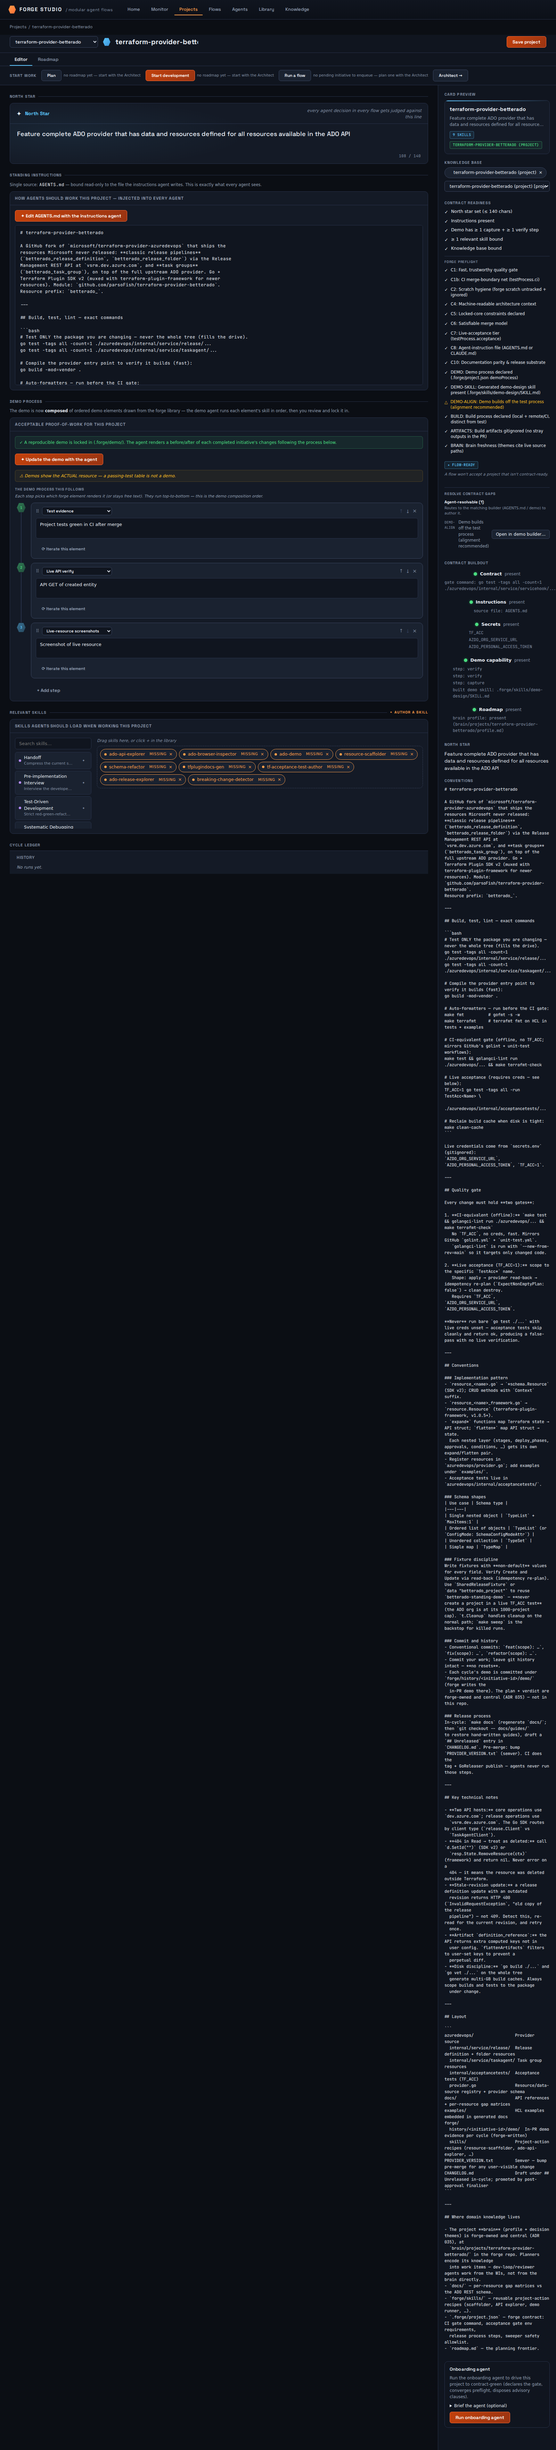
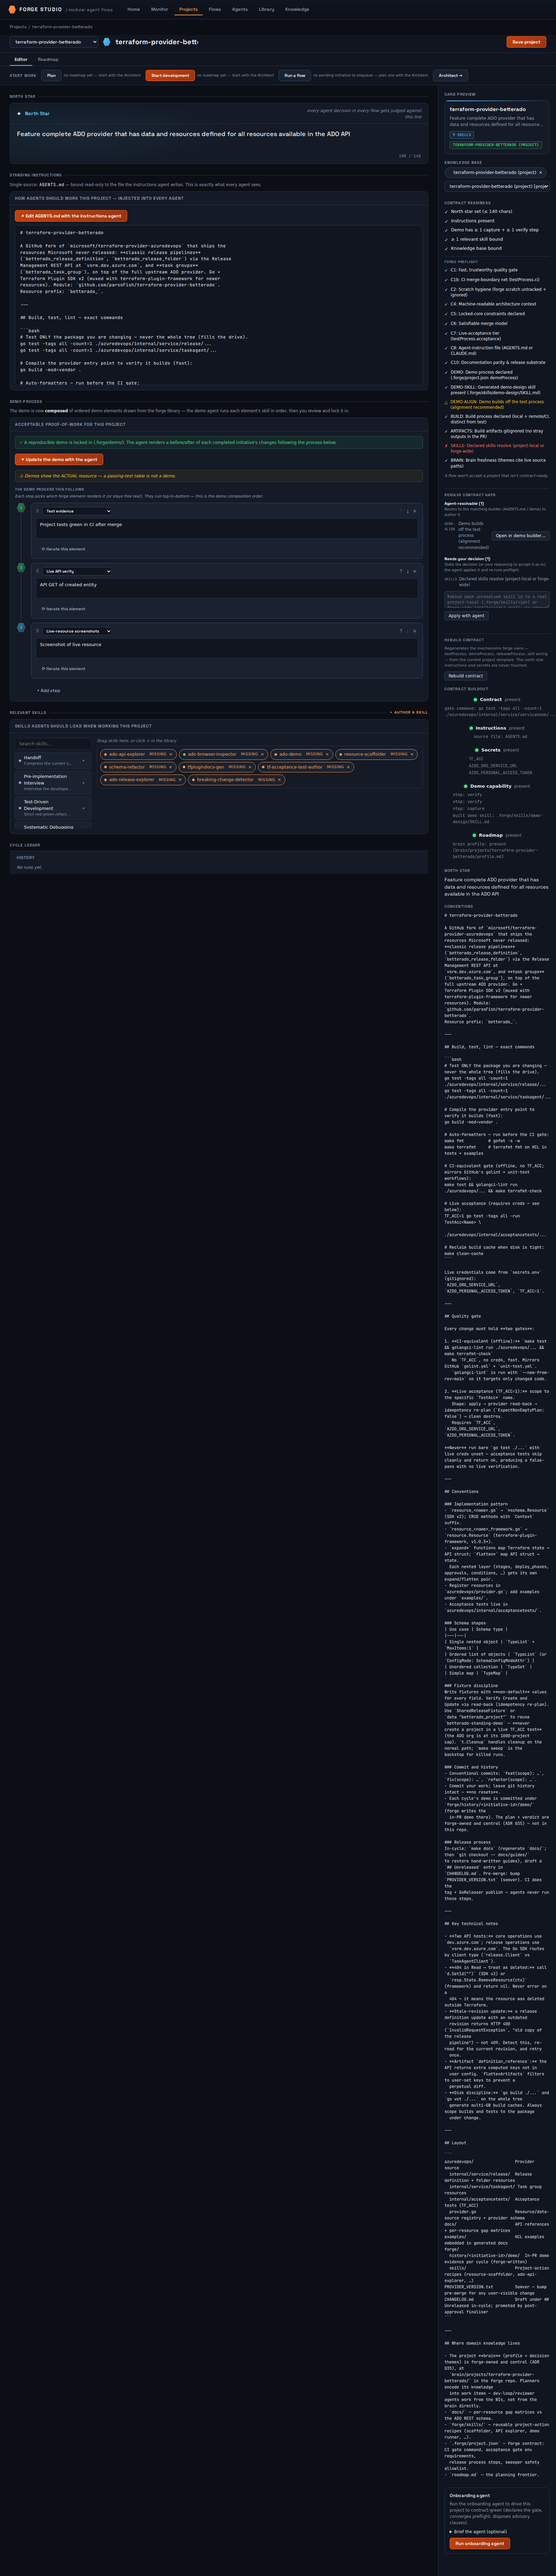
docs(stories): regenerate S3's how-to and frames from the 2026-09-05 run
Run-derived, per ruling 185. S3: red — 10/12, the strongest verdict of the
three stories run this sitting.

Beat 5's four-press `do` really does rebuild the contract: the run committed
`forge-studio: reset project contract` in the ground and relocated all nine
skills. Beats 7-10 then prove the preservation that matters — the secret name,
the instructions, the north star and preflight MET — so the how-to's steps are
now backed by a rebuild that actually happened rather than by a control that
was never pressed.

Claude-Session: https://claude.ai/code/session_01Ya3G9h3LbHpo4nv6y7PPLK

diff --git a/demos/stories/index.html b/demos/stories/index.html
@@ -34,7 +34,7 @@
   </section>
   <section class="story red">
     <h2>S3 — Reset a project contract</h2>
-    <p class="verdict red">red · 8/12 beats green</p>
+    <p class="verdict red">red · 10/12 beats green</p>
     <video src="S3/story.webm" autoplay loop muted playsinline></video>
   </section>
   <section class="story red">

diff --git a/docs/how-to/S3.md b/docs/how-to/S3.md
@@ -74,12 +74,12 @@ It does not resolve. Nor do the other eight. The skills are on disk — they sit
 
 ## 5. Press "Rebuild contract", and read the drift report it produces before applying it
 
-Rebuilding is not repairing. Forge regenerates the mechanisms it owns — the project config, the test, demo and release processes, the skill wiring — from the template every project created today is built from, and shows the operator a drift report first: what it will change, what it will leave alone, and what it cannot decide. Applying it closes the gaps, so nothing is left for a human or an agent to resolve by hand.
+Rebuilding is not repairing. Forge regenerates the mechanisms it owns — the project config, the test, demo and release processes, the skill wiring — from the template every project created today is built from, and it shows the operator a drift report first: what it will change, what it will leave alone, and what it cannot decide. Only then does it rewrite anything. Applying it leaves preflight MET on a project whose north star, instructions and secrets forge never had the right to touch — which is what the next four beats go and check, one at a time.
 
 > **This step is RED — not verified working.** The run asserted state the product did not show:
 >
-> - data-resolution-failing-count: expected "0", got "1"
-> - data-resolution-agent-count: expected "0", got "1"
+> - data-section: expected "contract-drift-applied", got "start-work"
+> - data-preflight-ok: expected "true", absent from the page
 
 ![Press "Rebuild contract", and read the drift report it produces before applying it](frames/05-press-rebuild-contract-and-read-the-drif.png)
 
@@ -87,9 +87,7 @@ Rebuilding is not repairing. Forge regenerates the mechanisms it owns — the pr
 
 - `data-page` is `projects`
 - `data-project-id` is `terraform-provider-betterado`
-- `data-section` is `contract-resolution`
-- `data-resolution-failing-count` is `1`
-- `data-resolution-agent-count` is `1`
+- `data-section` is `start-work`
 
 </details>
 
@@ -177,11 +175,6 @@ This is the check that says the reset was worth doing rather than merely surviva
 
 A template can regenerate the mechanisms forge owns. It cannot write an API explorer for Azure DevOps, so the skills the rebuild rewired still have to be re-derived against what this provider actually does. That is an Agent’s job, and it is briefed with what the contract already says rather than with anything new — the rebuild preserved both, so the operator is handing back the project’s own words.
 
-> **This step is RED — not verified working.** The run asserted state the product did not show:
->
-> - data-onboard-run-status: expected "running", got "idle"
-> - data-onboard-session-id: expected a value to bind as <onboardSessionId>, got ""
-
 ![Run the onboarding agent to re-derive the parts a template cannot write, briefed with the contract’s own north star and gate](frames/11-run-the-onboarding-agent-to-re-derive-th.png)
 
 <details><summary>What you should see</summary>
@@ -189,8 +182,8 @@ A template can regenerate the mechanisms forge owns. It cannot write an API expl
 - `data-page` is `projects`
 - `data-project-id` is `terraform-provider-betterado`
 - `data-section` is `onboard-with-agent`
-- `data-onboard-run-status` is `idle`
-- `data-onboard-session-id` is ``
+- `data-onboard-run-status` is `running`
+- `data-onboard-session-id` is `2026-09-05T02-14-24-f40ef3dd`
 - `data-onboard-attaching` is `false`
 
 </details>
@@ -199,8 +192,13 @@ A template can regenerate the mechanisms forge owns. It cannot write an API expl
 
 The session opens on the shared session surface, showing the same five-element contract buildout the project page shows — so the operator watches the Agent finish the job in the vocabulary the gate will judge. That is where S3 ends: a project that predates the contract now built to it, with the three things only the operator could have written still intact.
 
-> **This step is RED — not verified working.** The run asserted state the product did not show:
->
-> - route "/sessions/onboarding/<onboardSessionId>" needs <onboardSessionId>, which no earlier beat bound. A beat binds a segment by expecting `<name>` for a data-* key the product mints.
-
 ![Follow "View onboarding session" and watch it work](frames/12-follow-view-onboarding-session-and-watch.png)
+
+<details><summary>What you should see</summary>
+
+- `data-page` is `session`
+- `data-page-ready` is `true`
+- `data-session-kind` is `onboarding`
+- `data-buildout-row-count` is `5`
+
+</details>
